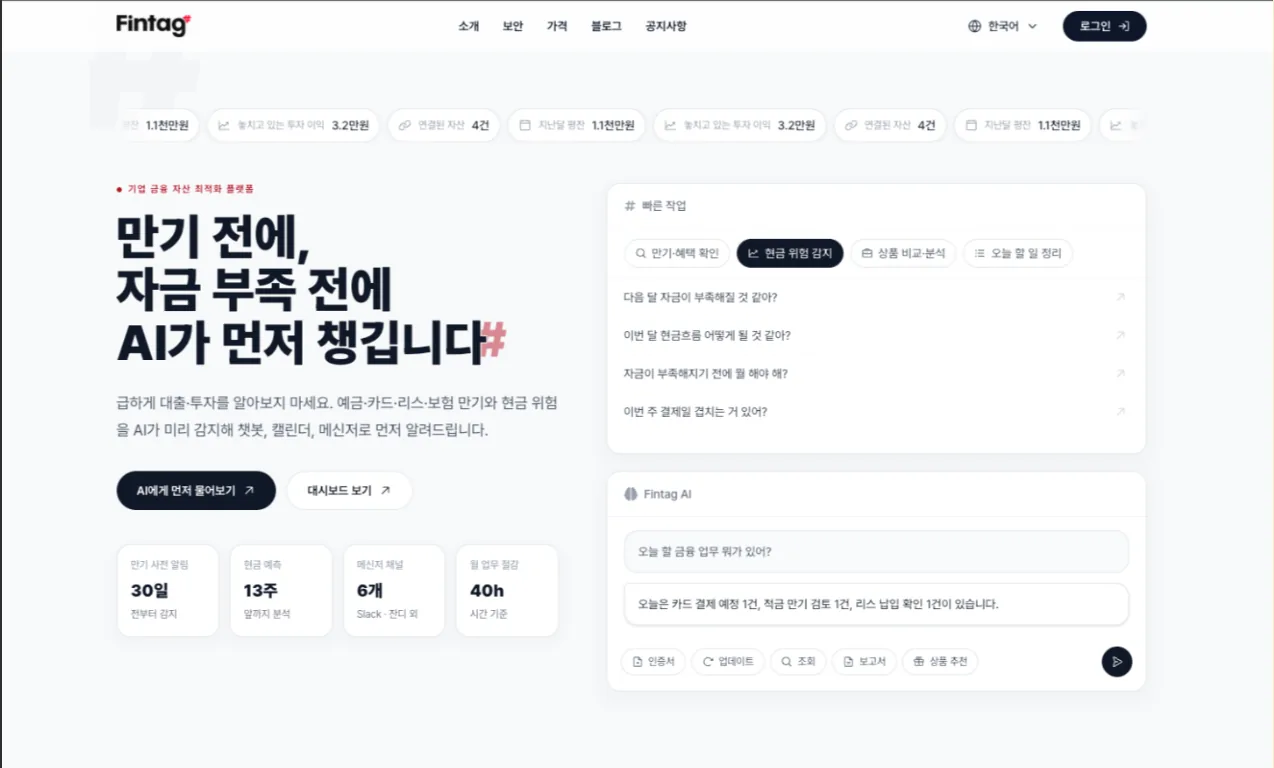
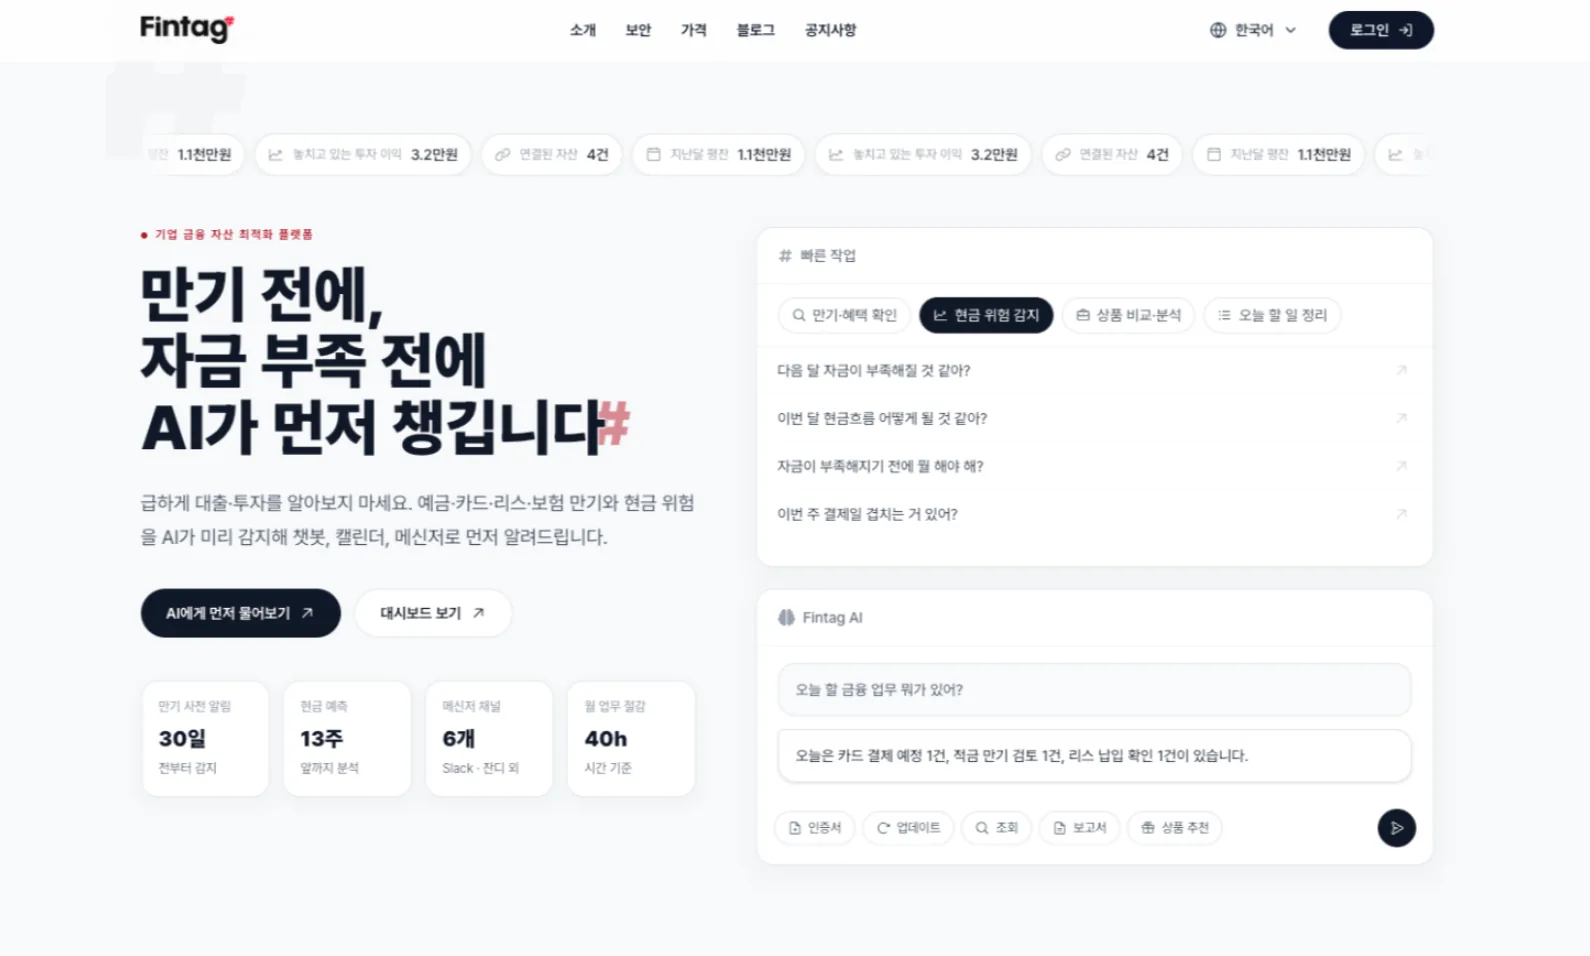
fix: About 히어로 스크린샷을 재캡처한 이미지로 교체
기존 캡처본 테두리에 검은 선이 섞여 있어 사용자가 다시 캡처한 이미지로
교체(1590x956), width/height 속성도 실제 크기에 맞춰 갱신

refs #47

diff --git a/src/components/project-detail/slides/AboutSlide.tsx b/src/components/project-detail/slides/AboutSlide.tsx
@@ -64,8 +64,8 @@ export function AboutSlide({ project, detail, accentColor, isMobile }: AboutSlid
               // 갱신되지 않아 스크롤 없이는 이미지가 영영 로드되지 않는
               // 문제가 있었다 — eager로 바꿔 우회한다.
               loading="eager"
-              width={1274}
-              height={768}
+              width={1590}
+              height={956}
               className="w-full h-auto block"
             />
           </div>
